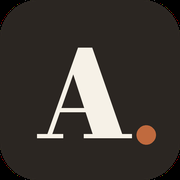
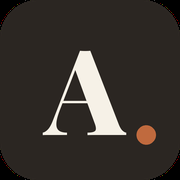
style: títulos en Playfair Display

Changed region(s): [[0.1944, 0.25, 0.75, 0.7778], [0.6111, 0.5556, 0.6389, 0.6389], [0.6389, 0.6389, 0.6667, 0.6944]]

diff --git a/src/routes/__root.tsx b/src/routes/__root.tsx
@@ -106,7 +106,7 @@ export const Route = createRootRouteWithContext<{ queryClient: QueryClient }>()(
       { rel: "preconnect", href: "https://fonts.gstatic.com", crossOrigin: "anonymous" },
       {
         rel: "stylesheet",
-        href: "https://fonts.googleapis.com/css2?family=Bodoni+Moda:ital,opsz,wght@0,6..96,400;1,6..96,400&family=Figtree:wght@400;500;600&display=swap",
+        href: "https://fonts.googleapis.com/css2?family=Playfair+Display:ital,wght@0,400..600;1,400..600&family=Figtree:wght@400;500;600&display=swap",
       },
     ],
   }),
@@ -118,7 +118,7 @@ export const Route = createRootRouteWithContext<{ queryClient: QueryClient }>()(
 
 function RootShell({ children }: { children: ReactNode }) {
   return (
-    <html lang="en">
+    <html lang="es">
       <head>
         <HeadContent />
       </head>

diff --git a/src/styles.css b/src/styles.css
@@ -40,7 +40,7 @@
   --color-dorado-foreground: var(--dorado-foreground);
   --color-texto: var(--texto);
   --color-texto-secundario: var(--texto-secundario);
-  --font-display: "Bodoni Moda", serif;
+  --font-display: "Playfair Display", Georgia, "Times New Roman", serif;
   --font-sans: "Figtree", sans-serif;
 }
 
@@ -137,5 +137,12 @@
 
   .animate-hero-rise {
     animation: none;
+  }
+}
+
+/* Títulos: Playfair Display en peso medio, más legible que el regular en tamaños grandes. */
+@layer base {
+  .font-display {
+    font-weight: 500;
   }
 }
